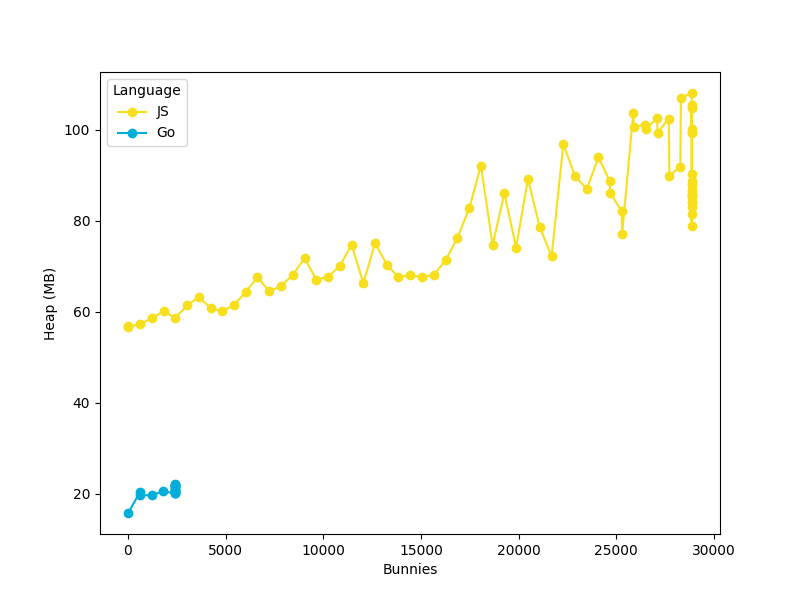
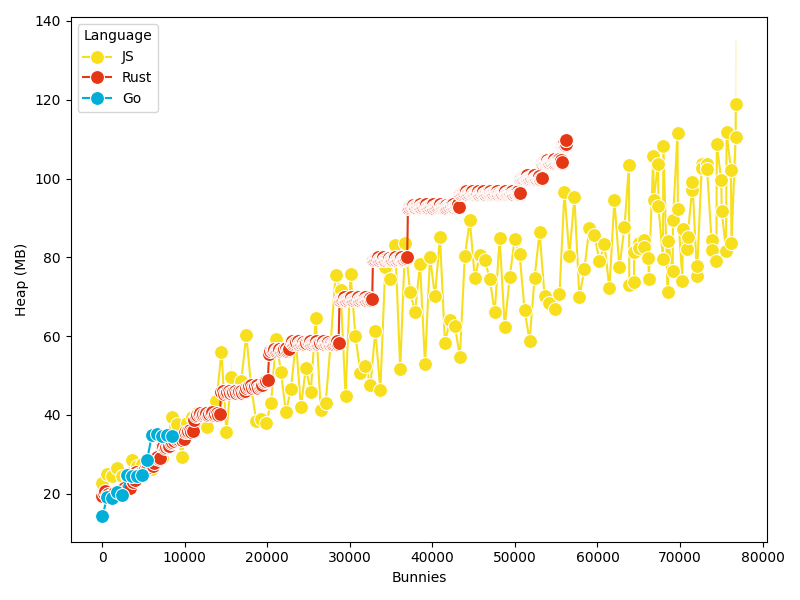
Update plots

diff --git a/plots/main.py b/plots/main.py
@@ -11,18 +11,29 @@ def main():
     # plot_max_bunnies()
     # plot_tps_stability()
     # plot_frame_time_distribution()
-    # plot_heap_usage()
-    plot_load_time()
+    plot_heap_usage()
+    # plot_load_time()
 
 
 DATA_DIR = "./data"
 IMG_DIR = "./img"
-COLORS = {
+LANG_COLORS = {
     "Go": "#01aed8",
     "Rust": "#e43715",
     "JS": "#f7df1d",
 }
-SAVE_PLOTS_PNG = False
+LANG_CONTRAST_COLORS = {
+    "Go": "#FF1493",
+    "Rust": "#00C2A0",
+    "JS": "#3F51B5",
+}
+BROWSER_COLORS = {
+    "Chromium": "#264AFF",
+    "Firefox": "#D32F2F",
+    "GnomeWeb": "#7E57C2",
+}
+
+SAVE_PLOTS_PNG = True
 
 
 # Load CSV files
@@ -55,8 +66,9 @@ def load_data():
 
 df_list, laptop_df_list, opt_z, opt_3 = load_data()
 
-df_all = pd.concat(df_list + opt_z, ignore_index=True)
-# df_all = pd.concat(df_list + opt_3, ignore_index=True)
+# df_all = pd.concat(df_list + opt_z, ignore_index=True)
+df_all = pd.concat(df_list + opt_3, ignore_index=True)
+# df_all = pd.concat(df_list + opt_3 + opt_z, ignore_index=True)
 # df_all = pd.concat(laptop_df_list, ignore_index=True)
 
 langs = df_all["lang"].unique()  # Go, Rust, JS
@@ -65,29 +77,69 @@ browsers = df_all["browser"].unique()  # Firefox, Chromium, GnomeWeb
 
 # Function to plot FPS vs bunnies
 def plot_fps_vs_bunnies():
-    g = sns.FacetGrid(
-        df_all,
-        col="browser",
-        hue="lang",
-        palette=COLORS,
-        col_wrap=len(browsers),
-        height=6,
-        aspect=1.5,
-    )
-    g.map(sns.lineplot, "bunnies", "fps_game", alpha=0.7)
+    for browser in browsers:
+        print(browser)
+        df_subset = df_all[df_all["browser"] == browser]
 
-    g.set_axis_labels("Bunnies", "FPS")
-    g.set_titles("{col_name}")
-    g.add_legend(title="Language")
-    g.tight_layout(pad=2.0)
+        plt.figure(figsize=(8, 6))
+        sns.lineplot(
+            data=df_subset,
+            x="bunnies",
+            y="fps_js",
+            hue="lang",
+            palette=LANG_COLORS,
+            alpha=0.7,
+            marker="o",
+            markersize=10,
+        )
 
-    finalize_plot("FPS_vs_Bunnies")
+        plt.axhline(y=60, color="red", linestyle="--", linewidth=1, label="60 FPS")
+
+        for lang in df_subset["lang"].unique():
+            df_lang = df_subset[df_subset["lang"] == lang].sort_values("bunnies")
+            bunnies = df_lang["bunnies"].values
+            fps = df_lang["fps_game"].values
+
+            for i in range(len(fps) - 1):
+                x0, x1 = bunnies[i], bunnies[i + 1]
+                y0, y1 = fps[i], fps[i + 1]
+
+                if x0 >= 1500 and x1 >= 1500 and (y0 - 60) * (y1 - 60) < 0:
+                    bunny_cross = x0 + (60 - y0) * (x1 - x0) / (y1 - y0)
+                    plt.plot(
+                        bunny_cross,
+                        60,
+                        "X",
+                        markersize=12,
+                        color=LANG_CONTRAST_COLORS[lang],
+                        label=f"{lang} {x0}",
+                    )
+                    break
+
+        plt.xlabel("Bunnies")
+        plt.ylabel("FPS")
+        plt.legend(title="Language")
+        plt.tight_layout()
+
+        finalize_plot(f"FPS_vs_Bunnies_{browser}")
 
 
 # Function to plot Max bunnies (bar chart)
 def plot_max_bunnies():
     max_bunnies = df_all.groupby(["lang", "browser"], as_index=False)["bunnies"].max()
-    sns.barplot(max_bunnies, x="lang", y="bunnies", hue="browser", palette="icefire")
+
+    ax = sns.barplot(
+        max_bunnies,
+        x="lang",
+        y="bunnies",
+        hue="browser",
+        palette=BROWSER_COLORS,
+        order=["Go", "Rust", "JS"],
+    )
+
+    for container in ax.containers:
+        ax.bar_label(container, fmt="%.0f", label_type="edge")
+
     plt.ylabel("Max Bunnies")
     plt.xlabel("Language")
 
@@ -102,7 +154,7 @@ def plot_tps_stability():
     plt.figure(figsize=(12, 6))
     sns.boxplot(x="lang_browser", y="tps", data=df_clean)
 
-    # plt.ylim(1, 70)  # Focused TPS range
+    plt.ylim(55, 65)  # Focused TPS range
     plt.xticks(rotation=45)
     plt.xlabel("Language - Browser")
     plt.ylabel("TPS")
@@ -134,7 +186,14 @@ def plot_heap_usage():
 
     plt.figure(figsize=(8, 6))
     sns.lineplot(
-        data=df_clean, x="bunnies", y="heap_mb", hue="lang", marker="o", palette=COLORS
+        data=df_clean,
+        x="bunnies",
+        y="heap_mb",
+        hue="lang",
+        hue_order=["JS", "Rust", "Go"],
+        marker="o",
+        markersize=10,
+        palette=LANG_COLORS,
     )
 
     plt.xlabel("Bunnies")

diff --git a/rust-bevy/src/lib.rs b/rust-bevy/src/lib.rs
@@ -164,8 +164,8 @@ fn update_positions(mut bunny_query: Query<(&mut Velocity, &mut Transform), With
 }
 
 fn check_boundaries(
-    mut bunny_query: Query<(&mut Velocity, &mut Transform), With<Bunny>>,
     bunny_image: ResMut<BunnyImage>,
+    mut bunny_query: Query<(&mut Velocity, &mut Transform), With<Bunny>>,
 ) {
     let scaled_width = bunny_image.width / 2.0 * BUNNY_SCALE;
     let scaled_height = bunny_image.height / 2.0 * BUNNY_SCALE;
@@ -193,9 +193,9 @@ fn input_system(
     mouse_button_input: Res<ButtonInput<MouseButton>>,
     commands: Commands,
     bunny_image: ResMut<BunnyImage>,
-    bunnies: Query<(), With<Bunny>>,
+    bunny_query: Query<Entity, With<Bunny>>,
 ) {
-    let bunny_count = bunnies.iter().count() as u32;
+    let bunny_count = bunny_query.iter().count() as u32;
 
     if mouse_button_input.pressed(MouseButton::Left) {
         spawn_bunnies(1, commands, bunny_image.into());
@@ -228,11 +228,11 @@ static GLOBAL_METRICS: Lazy<RwLock<Metrics>> = Lazy::new(|| RwLock::new(Metrics:
 fn update_diagnostics_text(
     diagnostics: Res<DiagnosticsStore>,
     mut writer: TextUiWriter,
-    text_query: Query<Entity, With<ColorText>>,
     fixed_time: Res<Time<Fixed>>,
-    bunnies: Query<(&mut Velocity, &mut Transform), With<Bunny>>,
+    text_query: Query<Entity, With<ColorText>>,
+    bunny_query: Query<Entity, With<Bunny>>,
 ) {
-    let bunny_count = bunnies.iter().count();
+    let bunny_count = bunny_query.iter().count();
     let fixed_delta = fixed_time.delta_secs_f64();
     let tickrate = if fixed_delta > 0.0 {
         1.0 / fixed_delta
